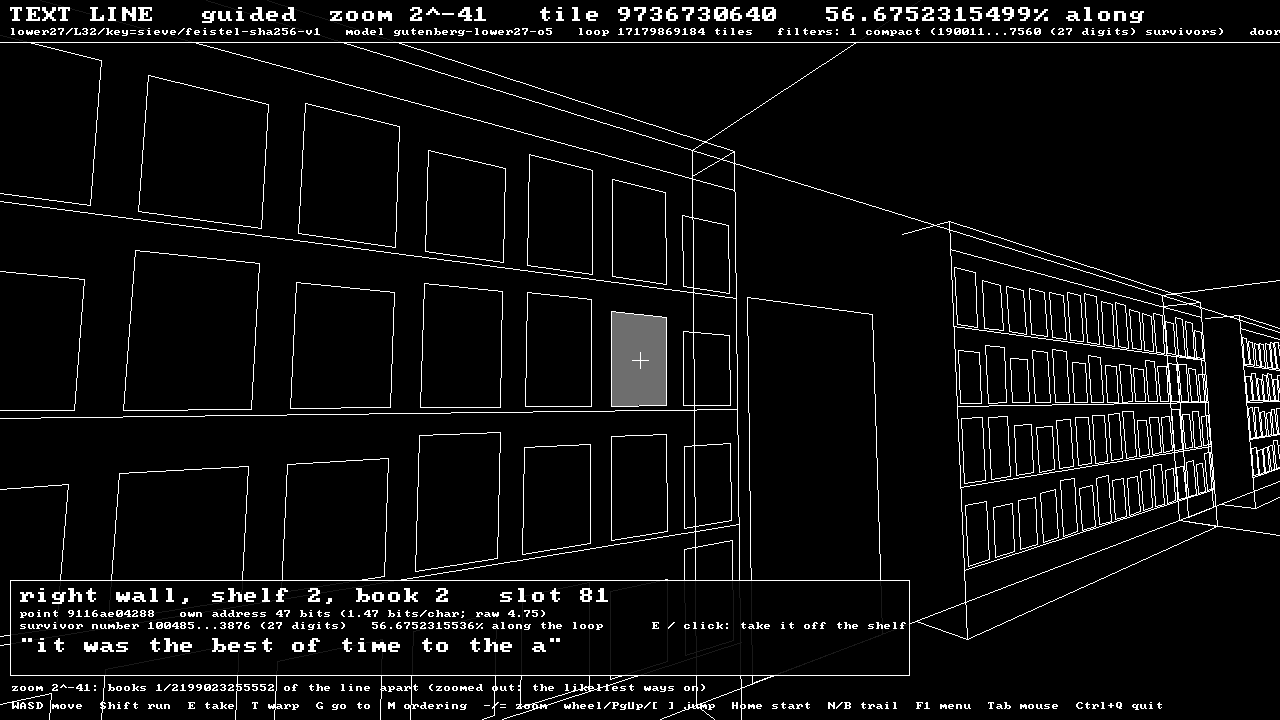
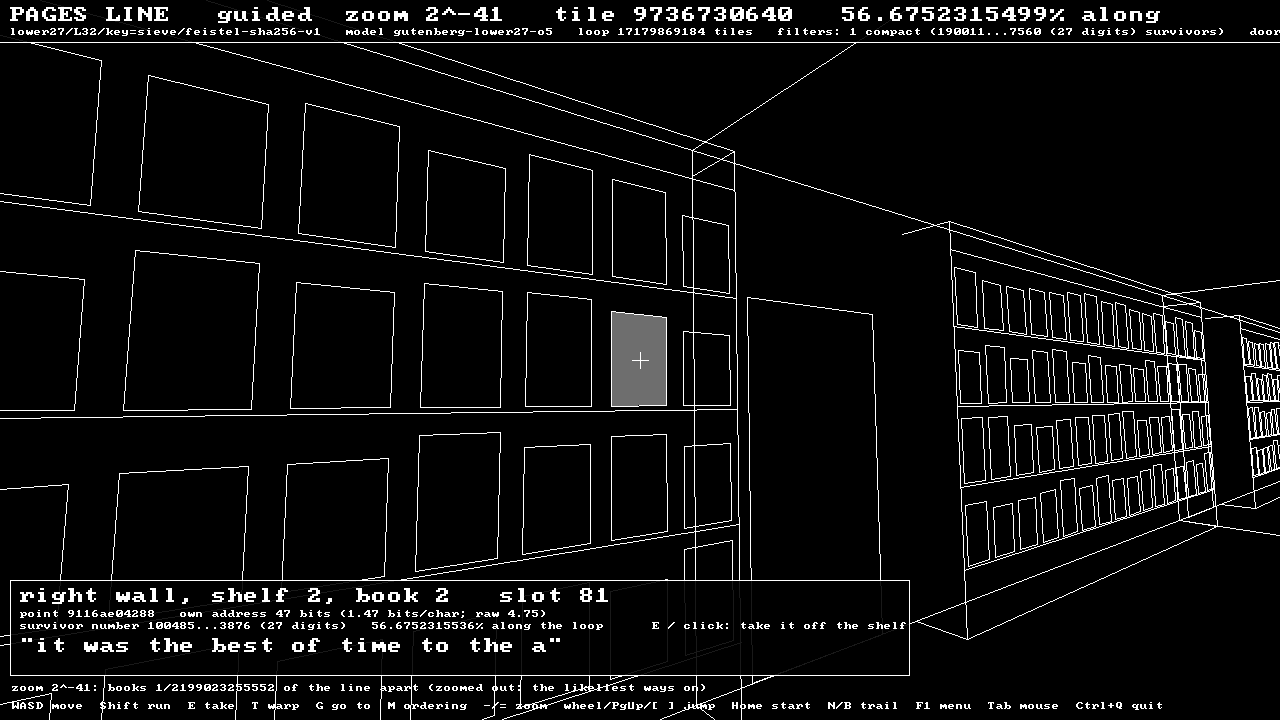
pages update

Changed region(s): [[0.4375, 0.0, 0.9062, 0.0306], [0.1562, 0.0, 0.4062, 0.0306], [0.0, 0.0, 0.125, 0.0306]]

diff --git a/Sieve/client/menu.cpp b/Sieve/client/menu.cpp
@@ -73,6 +73,7 @@ Settings Settings::from_args(const sieve::cli::Args& a)
 {
     Settings s;
     s.start_line = a.get("line", s.start_line);
+    if (s.start_line == "pages") s.start_line = "text"; // another name for the text line
     s.mode = a.get("mode", s.mode);
     s.key = a.get("key", s.key);
     s.length = parse_u32(a, "length", s.length);
@@ -303,10 +304,10 @@ void Menu::render()
         std::string label, value;
     };
     const std::vector<Row> rows = {
-        {"START", "line", s_.start_line},
+        {"START", "line", s_.start_line == "text" ? "pages" : s_.start_line},
         {nullptr, "ordering", s_.mode},
         {nullptr, "key", s_.key + (row_ == 2 ? "_" : "")},
-        {"TEXT", "length", std::to_string(s_.length) + " characters"},
+        {"PAGES", "length", std::to_string(s_.length) + " characters"},
         {nullptr, "alphabet", s_.alphabet + " (" + std::to_string(alphabet_size(s_.alphabet)) + " symbols)"},
         {nullptr, "warp rules", "canon-text-" + s_.canon},
         {nullptr, "model", s_.model ? "default (guided ordering available)" : "none"},
@@ -328,7 +329,7 @@ void Menu::render()
         {
             y += 8;
             const std::string sec = r.section;
-            const int li = sec == "TEXT" ? 0 : sec == "IMAGE" ? 1 : sec == "AUDIO" ? 2 : sec == "VIDEO" ? 3 : 4;
+            const int li = sec == "PAGES" ? 0 : sec == "IMAGE" ? 1 : sec == "AUDIO" ? 2 : sec == "VIDEO" ? 3 : 4;
             text(r_, 20, y, r.section, 2, li < 4 ? kThemes[li].edge : white);
             y += 20;
         }
@@ -374,7 +375,7 @@ void Menu::render()
         }
         SDL_RenderLine(r_, x + 10, label + 10, x + 15, label + 15);
         SDL_RenderLine(r_, x + 11, label + 10, x + 16, label + 15);
-        text(r_, x + 22, label, th.name, 2, th.edge);
+        text(r_, x + 22, label, th.title, 2, th.edge);
         const size_t caret = z.units.find(" = ");
         text(r_, x, label + 22, clip(z.units.substr(0, caret) + " units"), 1, th.edge);
         text(r_, x, label + 34, clip(z.units.substr(caret + 3)), 1, th.edge);
@@ -589,7 +590,7 @@ void Menu::render_overlay(float W, float H)
     SDL_RenderRect(r_, &inner);
     const float x = box_.x + 14;
     const size_t cols = size_t((box_.w - 60) / 8);
-    text(r_, x, box_.y + 10, std::string(th.name) + " FILTERS", 2, th.edge);
+    text(r_, x, box_.y + 10, std::string(th.title) + " FILTERS", 2, th.edge);
     text(r_, x, box_.y + 32, "A unit is shelved only if it passes every ticked filter.", 1, grey);
 
     const sieve::cli::LineFilters& lf = cfg_.lines[overlay_];

diff --git a/Sieve/client/hallway.cpp b/Sieve/client/hallway.cpp
@@ -1209,7 +1209,7 @@ const char* kUsage =
     "hallway - walk the Sieve's four lines in 3D\n\n"
     "Usage: hallway [options]\n\n"
     "Lines (the same meaning as in the sieve tool):\n"
-    "  --line text|image|audio|video  line to start in (default text)\n"
+    "  --line pages|image|audio|video  line to start in (default pages; text also works)\n"
     "  --length L          text: characters per book (default 32)\n"
     "  --alphabet ID       text: lower27 (default), babel29, ascii95\n"
     "  --canon v2|v1       text: warp rules (default v2)\n"
@@ -1307,10 +1307,9 @@ std::unique_ptr<Hallway> make_hallway(SDL_Window* window, SDL_Renderer* renderer
 {
     std::vector<Line> lines = make_lines(a);
     int start_line = 0;
+    const LineKind wanted = line_from_string(a.get("line", "text")); // "pages" is the text line
     for (int i = 0; i < 4; ++i)
-        if (a.get("line", "text") == to_string(kLineOrder[i])) start_line = i;
-    if (a.has("line") && a.get("line") != to_string(kLineOrder[start_line]))
-        throw std::invalid_argument("unknown line '" + a.get("line") + "'");
+        if (wanted == kLineOrder[i]) start_line = i;
     const bool text_has_model = lines[0].guided != nullptr;
     const LineKind start_kind = lines[size_t(start_line)].kind;
 

diff --git a/Sieve/client/theme.hpp b/Sieve/client/theme.hpp
@@ -8,16 +8,21 @@ namespace hallway {
 struct Theme
 {
     SDL_Color bg, edge;
-    const char* name;
+    const char* name;  // in the hallway ("PAGES LINE"); the text line's units are pages
+    const char* title; // in the setup menu
 };
 
 // Two colours per line: a solid background and the colour of every edge. Doors are solid black.
 // Order: text, image, audio, video (the order of the doors).
 inline constexpr Theme kThemes[4] = {
-    {{0, 0, 0, 255}, {255, 255, 255, 255}, "TEXT"},
-    {{0, 0, 140, 255}, {0, 255, 255, 255}, "IMAGE"},
-    {{0, 90, 0, 255}, {255, 176, 0, 255}, "AUDIO"},
-    {{140, 0, 0, 255}, {255, 255, 0, 255}, "VIDEO"},
+    {{0, 0, 0, 255}, {255, 255, 255, 255}, "PAGES", "PAGES"},
+    {{0, 0, 140, 255}, {0, 255, 255, 255}, "IMAGE", "IMAGE"},
+    {{0, 90, 0, 255}, {255, 176, 0, 255}, "AUDIO", "AUDIO"},
+    {{140, 0, 0, 255}, {255, 255, 0, 255}, "VIDEO", "VIDEO"},
 };
+
+// The planned books line (SPECIFICATIONS §11): works made of units of one line above. Not yet in
+// the corridor; its colours are fixed here so they are settled before it arrives.
+inline constexpr Theme kBooksTheme = {{150, 150, 150, 255}, {0, 0, 0, 255}, "BOOKS", "BOOKS"}; // grey, black edges
 
 } // namespace hallway

diff --git a/Sieve/tools/cli/lines.cpp b/Sieve/tools/cli/lines.cpp
@@ -83,11 +83,11 @@ const char* to_string(LineKind k)
 
 LineKind line_from_string(std::string_view s)
 {
-    if (s == "text") return LineKind::Text;
+    if (s == "text" || s == "pages") return LineKind::Text; // its units are pages
     if (s == "image") return LineKind::Image;
     if (s == "audio") return LineKind::Audio;
     if (s == "video") return LineKind::Video;
-    throw std::invalid_argument("unknown line '" + std::string(s) + "' (text|image|audio|video)");
+    throw std::invalid_argument("unknown line '" + std::string(s) + "' (text or pages|image|audio|video)");
 }
 
 Line make_line(const Args& a)

diff --git a/Sieve/docs/SPECIFICATIONS.md b/Sieve/docs/SPECIFICATIONS.md
@@ -173,6 +173,9 @@ The hallway is a wireframe. Each line has exactly two colours, a solid backgroun
 | Image | blue | cyan |
 | Audio | green | amber |
 | Video | red | yellow |
+| Books (planned, §11) | grey | black |
+
+The text line's units are pages, so the hallway and the setup menu call it PAGES; `--line pages` is accepted as another name for `--line text`.
 
 One tile of geometry (a bookcase and a door on each wall) is built once and repeated along the corridor. Edges fade towards the background with distance. Each tile holds 128 consecutive slots (4 shelves of 16 books on each wall): the left wall, then the right, shelf by shelf from the top, in walking order along each shelf. Padding slots have no book.
 

diff --git a/Sieve/README.md b/Sieve/README.md
@@ -217,6 +217,9 @@ A changed filter never replaces the old one. It is registered as the next versio
 | image | blue | cyan |
 | audio | green | amber |
 | video | red | yellow |
+| books (planned) | grey | black |
+
+The hallway and the setup menu call the text line **PAGES**, since each of its units is a page; `--line pages` works as another name for `--line text`.
 
 **Doors.** The walls repeat shelf, door, shelf. A black door in the **left** wall leads to the **next** line (text → image → audio → video → text). A door in the **right** wall leads to the **previous** line. You come in through the opposite door, in the new line's colours.
 
